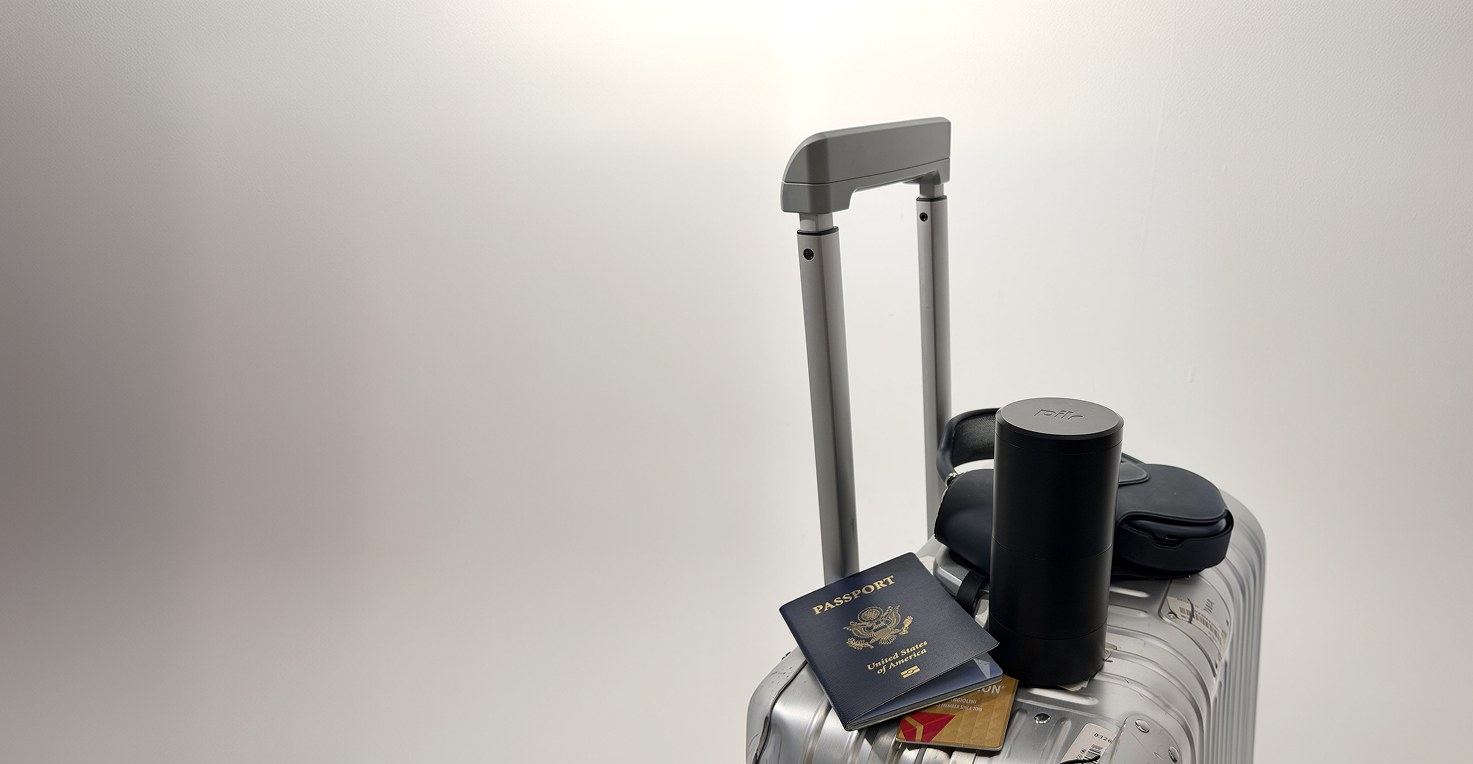
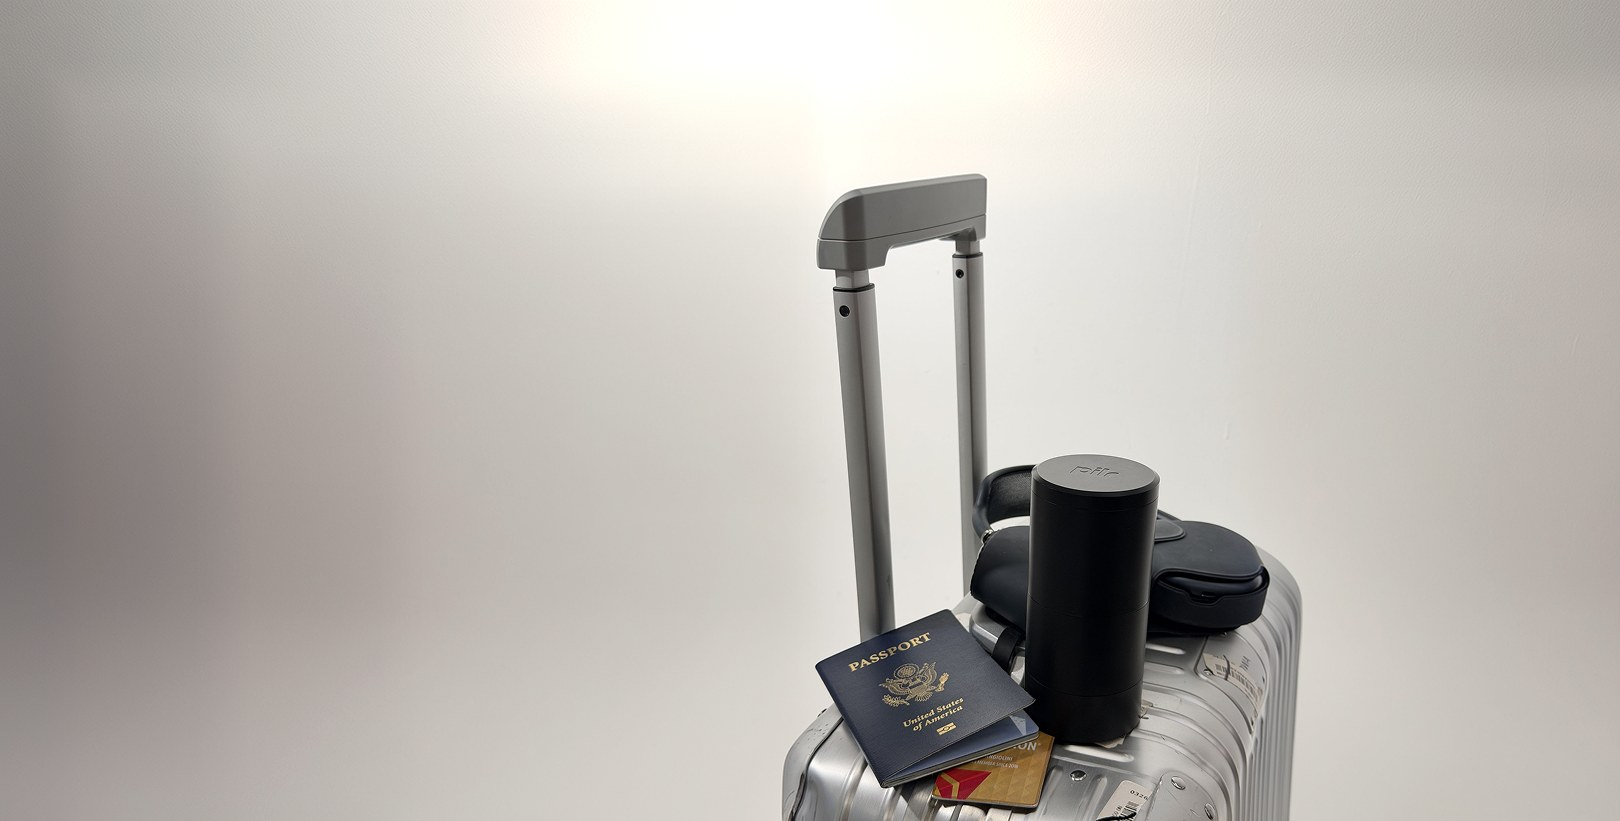
Homepage hero: extend the suitcase photo's dark backdrop to the left edge behind the headline, make the suitcase smaller, switch hero text to light

Changed region(s): [[0.4684, 0.1505, 0.8744, 1.0], [0.7495, 0.0, 1.0, 0.0903]]

diff --git a/style.css b/style.css
@@ -516,7 +516,7 @@ body {
 .hero {
   position: relative;
   width: 100%;
-  height: clamp(640px, 57vw, 900px);
+  height: clamp(700px, 48vw, 760px);
   background: var(--bg);
   overflow: hidden;
 }
@@ -609,8 +609,6 @@ body {
   max-width: none;
   object-fit: cover;
   object-position: right bottom;
-  -webkit-mask-image: linear-gradient(to right, transparent 36%, #000 52%);
-  mask-image: linear-gradient(to right, transparent 36%, #000 52%);
   transition: opacity 0.22s ease;
 }
 .hero-product-img--suitcase.is-fading { opacity: 0; }
@@ -653,6 +651,29 @@ body {
 .hero-slide-dash.is-active {
   width: 44px;
   opacity: 1;
+}
+
+/* Desktop: the photo runs behind the copy, so the text goes light and a
+   soft dark scrim keeps it readable across the photo's lighter patches. */
+@media (min-width: 901px) {
+  .hero-product::after {
+    content: "";
+    position: absolute;
+    inset: 0;
+    background: linear-gradient(to right, rgba(34, 42, 48, 0.55) 0%, rgba(34, 42, 48, 0.32) 38%, rgba(34, 42, 48, 0) 64%);
+    pointer-events: none;
+  }
+  .hero-eyebrow,
+  .hero-title,
+  .hero-tagline,
+  .hero-slide-counter { color: #FAFAF8; }
+  .hero-slide-dash { background: #FAFAF8; }
+  .hero-tagline { max-width: min(470px, 40vw); }
+}
+
+/* Stacked (phone/tablet) layout keeps the dark button on the light page. */
+@media (max-width: 900px) {
+  .hero-cta.btn { background: rgba(94, 110, 122, 0.7); color: #FAFAF8; }
 }
 
 /* ── BUTTONS ──────────────────────────────── */

diff --git a/index.html b/index.html
@@ -92,7 +92,7 @@
         <div class="hero-eyebrow">PACK&nbsp;&nbsp;&nbsp;STACK&nbsp;&nbsp;&nbsp;GO</div>
         <h1 class="hero-title">Your routine.<br>Anywhere.</h1>
         <p class="hero-tagline">A modular system for your daily supplements, wherever life takes you.</p>
-        <a href="./build-your-system.html" class="btn btn--dark hero-cta">build your system →</a>
+        <a href="./build-your-system.html" class="btn btn--white hero-cta">build your system →</a>
       </div>
       <div class="hero-product">
         <img class="hero-product-img hero-product-img--suitcase" id="hero-slide-img" src="images/lifestyle_section/Hero Suitcase Wide.jpg" alt="A pilr pod on a Rimowa suitcase next to a passport and headphones, ready to travel" />
